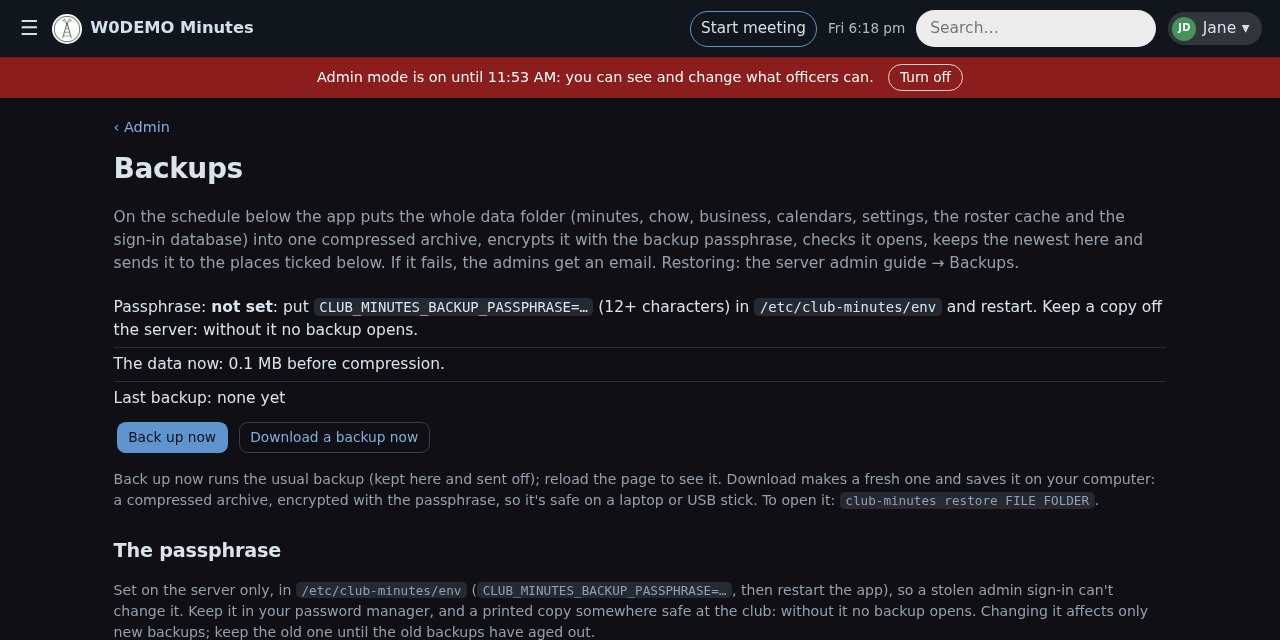
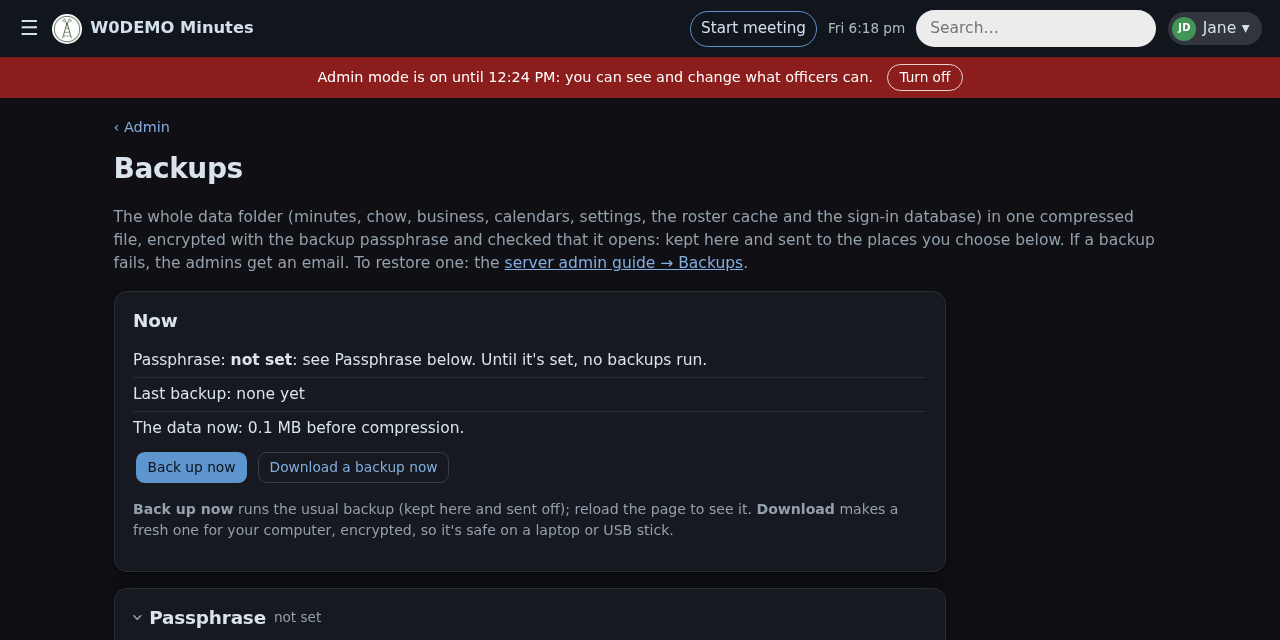
Backups page in sections (Now, Passphrase, Schedule, S3, Google Drive, Backups on the server; folded when there's nothing to do), shorter text; password fields styled like the rest (Check a passphrase, the S3 secret); a passphrase check's answer shows where you land
Claude-Session: https://claude.ai/code/session_015owk5TUhbHcRFQXcmfqPQ4

diff --git a/src/club_minutes/templates/security.html b/src/club_minutes/templates/security.html
@@ -86,40 +86,45 @@
 {% endif %}
 {% if tab == 'backups' %}
 {% if error %}<p class="msg err">{{ error }}</p>{% endif %}{% if note %}<p class="msg ok">{{ note }}</p>{% endif %}
-<p class="muted">On the schedule below the app puts the whole data folder (minutes, chow, business, calendars, settings, the roster cache and the sign-in database) into one compressed archive, encrypts it with the backup passphrase, checks it opens, keeps the newest here and sends it to the places ticked below. If it fails, the admins get an email. Restoring: the server admin guide → Backups.</p>
+<p class="muted">The whole data folder (minutes, chow, business, calendars, settings, the roster cache and the sign-in database) in one compressed file, encrypted with the backup passphrase and checked that it opens: kept here and sent to the places you choose below. If a backup fails, the admins get an email. To restore one: the <a href="/help/server-admin#backups">server admin guide → Backups</a>.</p>
+
+<section class="card sitesec"><h2>Now</h2>
 <ul class="plain">
-<li>Passphrase: {% if passphrase_set %}set{% else %}<b>not set</b>: put <code>CLUB_MINUTES_BACKUP_PASSPHRASE=…</code> (12+ characters) in <code>/etc/club-minutes/env</code> and restart. Keep a copy off the server: without it no backup opens.{% endif %}</li>
-<li>The data now: {{ (data_size / 1048576)|round(1) }} MB before compression{% if backup_status.size %}; the last backup came to {{ (backup_status.size / 1048576)|round(1) }} MB compressed{% endif %}.</li>
+<li>Passphrase: {% if passphrase_set %}set{% else %}<b>not set</b>: see Passphrase below. Until it's set, no backups run.{% endif %}</li>
 <li>Last backup: {% if not backup_status %}none yet{% elif backup_status.ok %}{{ backup_status.at|tsfull }}, {{ backup_status.files }} files, {{ (backup_status.size / 1048576)|round(1) }} MB{% if backup_status.sent_to %}, sent to {{ backup_status.sent_to|join(' and ') }}{% else %}, on the server only{% endif %}{% else %}<b>failed</b> {{ backup_status.at|tsfull }}: {{ backup_status.error }}{% endif %}</li>
+<li>The data now: {{ (data_size / 1048576)|round(1) }} MB before compression.</li>
 </ul>
 <div class="formrow"><form method="post" action="/admin/backups/now" class="inline"><button class="btn small">Back up now</button></form>
 <form method="post" action="/admin/backups/download" class="inline"><button class="btn small ghost">Download a backup now</button></form></div>
-<p class="hint">Back up now runs the usual backup (kept here and sent off); reload the page to see it. Download makes a fresh one and saves it on your computer: a compressed archive, encrypted with the passphrase, so it's safe on a laptop or USB stick. To open it: <code>club-minutes restore FILE FOLDER</code>.</p>
+<p class="hint"><b>Back up now</b> runs the usual backup (kept here and sent off); reload the page to see it. <b>Download</b> makes a fresh one for your computer, encrypted, so it's safe on a laptop or USB stick.</p>
+</section>
 
-<h2 id="passphrase">The passphrase</h2>
-<p class="hint">Set on the server only, in <code>/etc/club-minutes/env</code> (<code>CLUB_MINUTES_BACKUP_PASSPHRASE=…</code>, then restart the app), so a stolen admin sign-in can't change it. Keep it in your password manager, and a printed copy somewhere safe at the club: without it no backup opens. Changing it affects only new backups; keep the old one until the old backups have aged out.</p>
+<details class="card sitesec" id="passphrase" {{ 'open' if not passphrase_set }}><summary><h2>Passphrase</h2><span class="muted small">{{ 'set' if passphrase_set else 'not set' }}</span></summary>
+<p class="hint">Set on the server only, so a stolen admin sign-in can't change it: <code>CLUB_MINUTES_BACKUP_PASSPHRASE=…</code> (12+ characters) in <code>/etc/club-minutes/env</code>, then restart the app. Keep a copy in your password manager and a printed one somewhere safe at the club: <b>without it no backup opens</b>. A new one applies to new backups only, so keep the old one until the old backups have aged out.</p>
 <details><summary>Suggest a passphrase</summary>
   <p><code class="cs">{{ suggestion }}</code></p>
-  <p class="hint">Random, made just now and not kept anywhere: copy it before leaving the page. Capital letters and digits without look-alikes (no 0/O, 1/I/L), in groups of four, so it's easy to read off paper and type; about 119 bits, far beyond guessing. A password manager's generator works too: 20+ random letters and digits, or 7+ random words. Symbols aren't needed: length matters more.</p>
+  <p class="hint">Random, made just now and not kept anywhere: copy it before leaving the page. Capitals and digits without look-alikes (no 0/O, 1/I/L), in groups of four, easy to read off paper; about 119 bits. A password manager's generator works too: 20+ random letters and digits, or 7+ random words.</p>
 </details>
 <form method="post" action="/admin/backups/check" class="modern">
   <div class="formrow"><label>Check a passphrase<input type="password" name="passphrase" required autocomplete="off"></label>
   <button class="btn small ghost">Check</button></div>
-  <p class="hint">Says whether it matches the server's, how strong it is, and whether it's in Have I Been Pwned's leaked passwords (only the first 5 characters of its hash are sent). It isn't stored or logged.</p>
+  <p class="hint">Whether it matches the server's, how strong it is, and whether it's among Have I Been Pwned's leaked passwords (only the first 5 characters of its hash are sent). It isn't stored or logged.</p>
 </form>
+</details>
 
-<h2>Schedule and how many to keep</h2>
-<p class="hint"><b>Recommended:</b> daily at {{ rec.hour }}:00, keep {{ rec.keep_local }} on the server, {{ rec.drive_keep }} on Google Drive, and {{ rec.s3_days }} days on S3 (the bucket's lifecycle rule). At this size{% if backup_status.size %} (about {{ (backup_status.size / 1048576)|round(1) }} MB each){% endif %}, a year of daily backups is a few GB at most: pennies on B2, well within a Shared Drive. Daily means at most a day of changes could be lost; the server copies cover a mistake noticed within the week, the off-server copies a lost server or one noticed later.</p>
-
-<form method="post" action="/admin/backups/settings" class="modern card">
+<form method="post" action="/admin/backups/settings" class="modern">
+<details class="card sitesec" open><summary><h2>Schedule</h2><span class="muted small">{{ {'daily': 'every day', 'weekly': 'every week', 'off': 'by hand only'}[bs.schedule.every] }}{% if bs.schedule.every != 'off' %} at {{ bs.schedule.hour }}:00{% endif %}, {{ bs.keep_local }} kept here</span></summary>
   <div class="formrow">
     <label>Back up<select name="every">{% for v, label in (('daily', 'Every day'), ('weekly', 'Every week'), ('off', 'Only when I click Back up now')) %}<option value="{{ v }}" {{ 'selected' if bs.schedule.every == v }}>{{ label }}</option>{% endfor %}</select></label>
     <label>At<select name="hour">{% for h in range(24) %}<option value="{{ h }}" {{ 'selected' if bs.schedule.hour == h }}>{{ '%d:00'|format(h) }}</option>{% endfor %}</select></label>
     <label>Keep on the server<input name="keep_local" type="number" min="1" max="60" value="{{ bs.keep_local }}" size="4"></label>
   </div>
-  <h3>Where backups go</h3>
-  <label class="check"><input type="checkbox" name="s3_on" value="1" {{ 'checked' if bs.s3.on }}> <b>S3-compatible storage</b> (Backblaze B2, AWS, Wasabi)</label>
-  <p class="hint">A private bucket, and a key limited to it with read and write. How long backups are kept there is the bucket's lifecycle rule (the server admin guide → Backups).</p>
+  <p class="hint"><b>Recommended:</b> daily at {{ rec.hour }}:00, {{ rec.keep_local }} kept here, {{ rec.drive_keep }} on Google Drive and {{ rec.s3_days }} days on S3. A year of daily backups{% if backup_status.size %} (about {{ (backup_status.size / 1048576)|round(1) }} MB each){% endif %} is a few GB at most. The copies here cover a mistake noticed within the week; the ones sent off cover a lost server.</p>
+</details>
+
+<details class="card sitesec" {{ 'open' if bs.s3.on }}><summary><h2>S3-compatible storage</h2><span class="muted small">{{ 'on' if bs.s3.on else 'off' }} · Backblaze B2, AWS, Wasabi</span></summary>
+  <label class="check"><input type="checkbox" name="s3_on" value="1" {{ 'checked' if bs.s3.on }}> Send backups here</label>
+  <p class="hint">A private bucket, and a key limited to it with read and write. How long backups stay there is the bucket's lifecycle rule (server admin guide → Backups).</p>
   <div class="formrow">
     <label>Endpoint<input name="s3_endpoint" value="{{ bs.s3.endpoint or '' }}" placeholder="https://s3.us-west-004.backblazeb2.com"></label>
     <label>Region<input name="s3_region" value="{{ bs.s3.region or '' }}" placeholder="us-west-004" size="12"></label>
@@ -133,19 +138,23 @@
     <label>Secret key<input name="s3_secret" type="password" autocomplete="new-password" placeholder="{{ '(saved; leave blank to keep it)' if bs.s3.secret else '' }}"></label>
   </div>
   {% if env_s3 %}<p class="hint">The key in <code>/etc/club-minutes/env</code> is used instead of these.</p>{% endif %}
-  <hr>
-  <label class="check"><input type="checkbox" name="drive_on" value="1" {{ 'checked' if bs.drive.on }}> <b>Google Drive</b>, with the app's service account</label>
-  <p class="hint">The folder must be in a <b>Shared Drive</b> (Google Workspace): Google gives service accounts no storage of their own, so a folder in someone's My Drive won't work. Add the service account to the Shared Drive as <b>Content manager</b> (so it can delete old backups).{% if not drive_key %} <b>The service-account key isn't on the server.</b>{% endif %}</p>
+</details>
+
+<details class="card sitesec" {{ 'open' if bs.drive.on }}><summary><h2>Google Drive</h2><span class="muted small">{{ 'on' if bs.drive.on else 'off' }} · a Shared Drive folder</span></summary>
+  <label class="check"><input type="checkbox" name="drive_on" value="1" {{ 'checked' if bs.drive.on }}> Send backups here, with the app's service account</label>
+  <p class="hint">The folder must be in a <b>Shared Drive</b> (Google Workspace): service accounts have no storage of their own, so a folder in someone's My Drive won't work. Add the service account to the Shared Drive as <b>Content manager</b>, so it can delete old backups.{% if not drive_key %} <b>The service-account key isn't on the server.</b>{% endif %}</p>
   <div class="formrow">
     <label>Folder link or ID<input name="drive_folder" value="{{ bs.drive.folder or '' }}" placeholder="https://drive.google.com/drive/folders/…"></label>
     <label>Keep the last<input name="drive_keep" type="number" min="1" max="365" value="{{ bs.drive.keep or 30 }}" size="4"></label>
   </div>
-  <div class="formrow"><button class="btn small">Save</button></div>
+</details>
+<div class="formrow sitesec"><button class="btn">Save schedule and places</button></div>
 </form>
 
-<h2>On the server</h2>
-<p class="hint">Download one to keep on your own computer. It's encrypted: it opens only with the passphrase.</p>
+<details class="card sitesec"><summary><h2>Backups on the server</h2><span class="muted small">{{ local_backups|length }}</span></summary>
+<p class="hint">Download one to keep on your own computer. It's encrypted: it opens only with the passphrase (<code>club-minutes restore FILE FOLDER</code>).</p>
 <ul class="plain">{% for name, size in local_backups %}<li><a href="/admin/backups/{{ name }}">{{ name }}</a> <span class="muted small">{{ (size / 1048576)|round(1) }} MB</span></li>{% else %}<li class="muted">None yet.</li>{% endfor %}</ul>
+</details>
 {% endif %}
 {% if tab == 'server' %}
 {% if error %}<p class="msg err">{{ error }}</p>{% endif %}{% if note %}<p class="msg ok">{{ note }}</p>{% endif %}

diff --git a/src/club_minutes/static/style.css b/src/club_minutes/static/style.css
@@ -67,7 +67,7 @@ code { background: var(--surface-3); border-radius: .3rem; padding: .05rem .35re
 hr { border: 0; border-top: 1px solid var(--border); }
 
 /* form fields everywhere */
-input[type=text], input[type=search], input[type=email], input[type=tel], input[type=url], input[type=date], input[type=time], input[type=number], input:not([type]),
+input[type=text], input[type=search], input[type=email], input[type=tel], input[type=url], input[type=date], input[type=time], input[type=number], input[type=password], input:not([type]),
 select, textarea {
   font: inherit; color: var(--text); background: var(--surface); border: 1px solid var(--border-strong);
   border-radius: var(--radius-sm); padding: .45rem .65rem; }
@@ -356,7 +356,7 @@ div.relnotes ul { padding-left: 1.2rem; margin: .5rem 0; } div.relnotes li { mar
 /* ---------- phones ---------- */
 @media (max-width: 760px) {
   /* iOS zooms the page into any field under 16px */
-  input[type=text], input[type=search], input[type=email], input[type=tel], input[type=url], input[type=date], input[type=time], input[type=number], input:not([type]),
+  input[type=text], input[type=search], input[type=email], input[type=tel], input[type=url], input[type=date], input[type=time], input[type=number], input[type=password], input:not([type]),
   select, textarea { font-size: 16px; }
   main { margin-top: 1.1rem; padding: 0 .8rem; }
   .pagesearch { display: block; margin-bottom: .6rem; }

diff --git a/src/club_minutes/web.py b/src/club_minutes/web.py
@@ -2127,7 +2127,7 @@ def security_backup_check(request: Request, passphrase: str = Form("")):
     _security_admin(request)
     ok, msg = backup.check(passphrase)
     _admin_log(request, backup="checked a passphrase")
-    return RedirectResponse("/admin/backups?" + ("note=" if ok else "error=") + quote(msg) + "#passphrase", status_code=303)
+    return RedirectResponse("/admin/backups?" + ("note=" if ok else "error=") + quote(msg), status_code=303)  # the answer shows at the top
 
 
 @app.post("/admin/backups/download")
